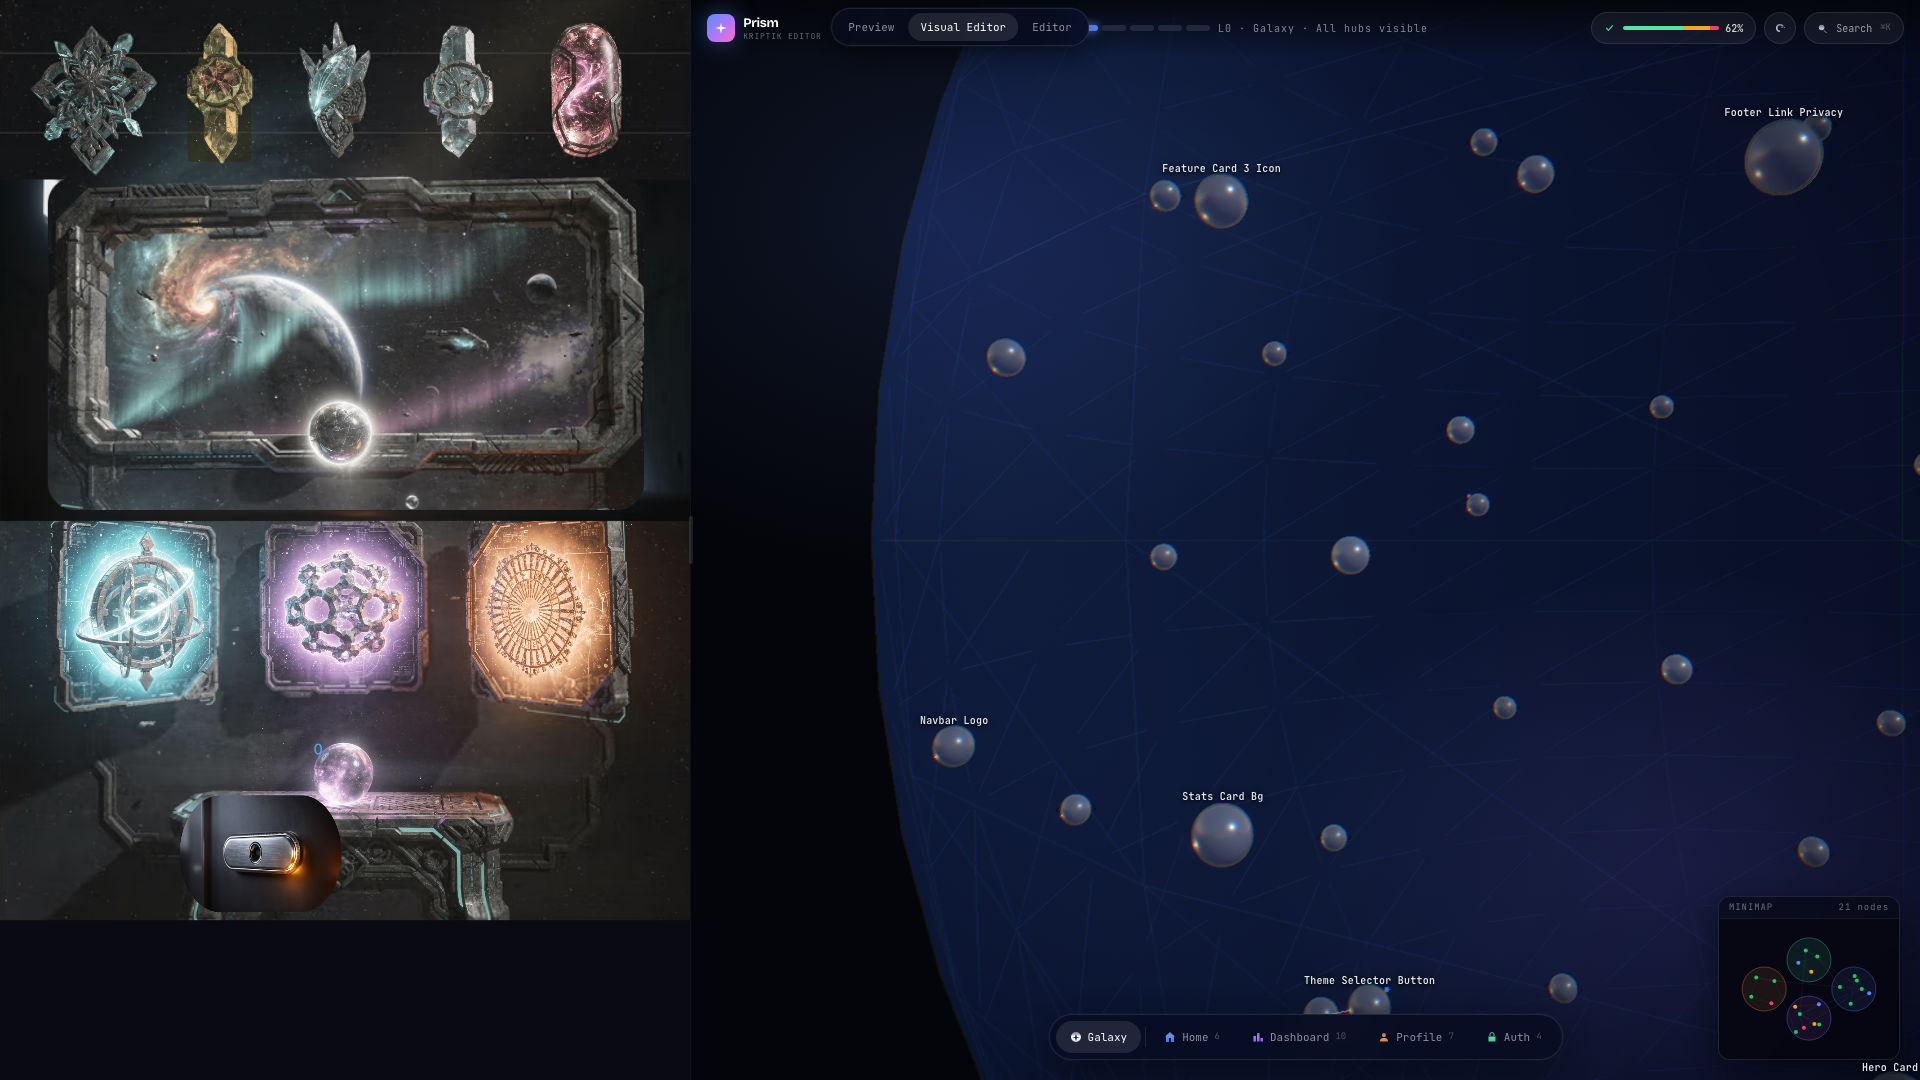
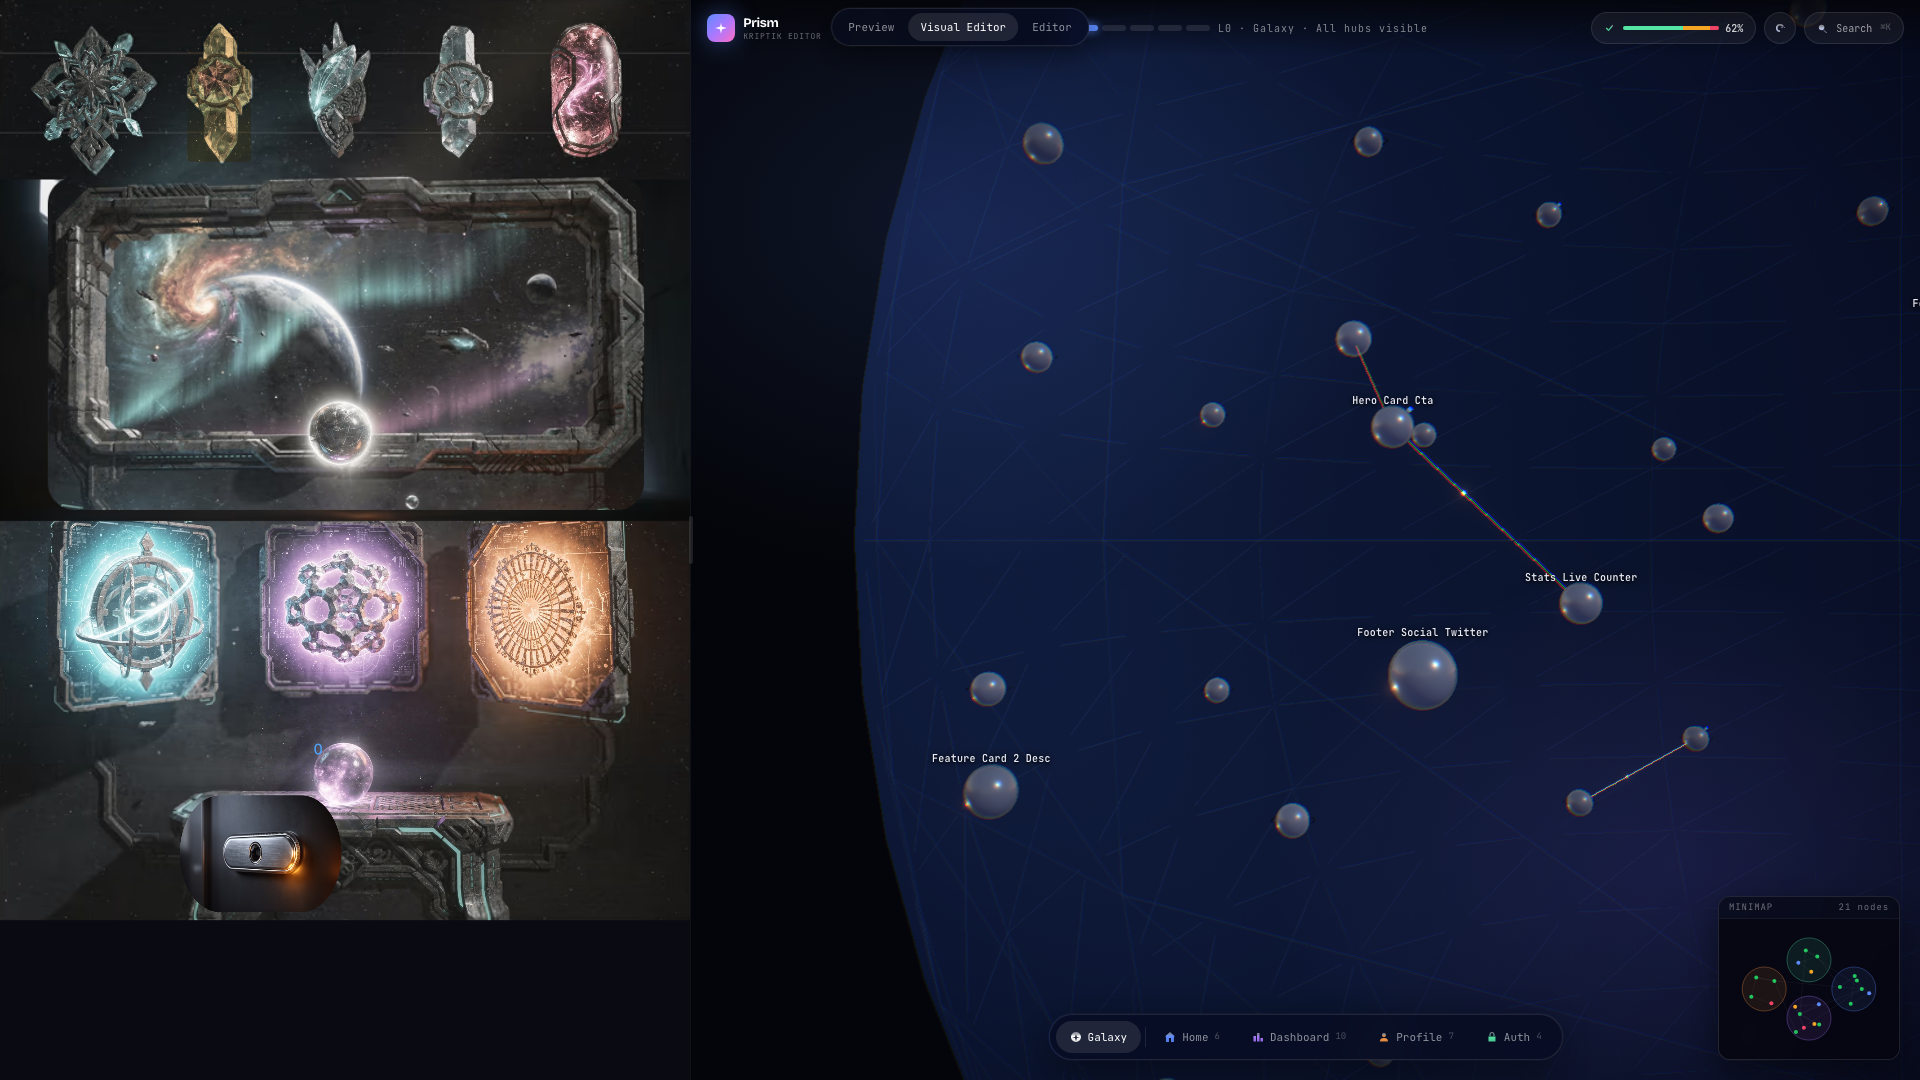
prism-mock: post-ralph fix-up v2 — 'embedded' role + camera close-zoom restored
Two regressions from v1:

1. 29 element-spheres was still too many. The user counts ~15-20 visible
   discrete elements in the preview; per-card text labels and small
   sub-elements (titles, descriptions, icons, copyright text, live
   counters) are perceived as part of their parent card / footer, not
   as standalone nav targets. Add a third PrismEditorRole value:
   'embedded'. Re-classify 13 nodes (hero text, all 9 feature-card
   sub-elements, footer-copyright, stats-live-counter). Editor + 5
   overlays now filter on `editorRole === 'element'` (was != 'background').
   New distribution: 11 background, 13 embedded, 16 element.

2. Camera minDistance had been scaled with hubRadius × 0.09, which made
   close-zoom impossible on hubs of ~150-unit radius. Revert to a small
   constant (8). maxDistance keeps scaling so big hubs still fit in frame.

Section / cluster ratios in useForceGraph.ts are intentionally unchanged
— spacing should stay loose for navigation comfort.

.prism artifact rebuilt; new artifactHash:
70bc44423ab872ab5d8b6babbe23bb29a9f4740789c2e9a33ec9265c6f2b2d4b
verify:prism 15/15 + browser-smoke 6/6 against the new artifact.

diff --git a/kid-kode-landing/src/components/editor/graph/GraphScene.tsx b/kid-kode-landing/src/components/editor/graph/GraphScene.tsx
@@ -676,10 +676,11 @@ function ControlsBridge({
     setCameraDistance(c.distance);
   });
 
-  // Scale camera bounds with the largest hub. Floor / ceiling keep the
-  // controls reasonable when the graph is empty or, conversely, very large.
+  // minDistance stays a small constant so close-zoom on individual nodes
+  // works even when the largest hub is wide. maxDistance scales up with
+  // the biggest hub so the full constellation stays in frame.
   const maxHubRadius = Math.max(90, ...Object.values(hubRadii));
-  const minDist = Math.max(5, maxHubRadius * 0.09);
+  const minDist = 8;
   const maxDist = Math.max(600, maxHubRadius * 6.5);
 
   return (
@@ -720,11 +721,12 @@ function SceneContent({
     [sourceHubs, sourceNodes, sourceEdges]
   );
 
-  // Element-only nodes feed the force-graph; full-section/card backgrounds
-  // (editorRole === 'background') stay part of the hub's outer mockup shell
-  // and never get nav-able element-spheres.
+  // Element-only nodes feed the force-graph. `background` (full-section /
+  // card fills) and `embedded` (text labels + per-card sub-elements like
+  // titles, descriptions, icons that the user perceives as part of a card,
+  // not as standalone elements) both stay off the nav-able sphere set.
   const elementNodes = useMemo(
-    () => editorGraph.nodes.filter((n) => n.editorRole !== 'background'),
+    () => editorGraph.nodes.filter((n) => n.editorRole === 'element'),
     [editorGraph.nodes]
   );
 

diff --git a/kid-kode-landing/src/components/editor/overlays/DetailCard.tsx b/kid-kode-landing/src/components/editor/overlays/DetailCard.tsx
@@ -23,9 +23,9 @@ export default function DetailCard() {
   );
 
   if (!selectedId || inspectorOpen) return null;
-  // Restrict the popover to discrete elements; backgrounds are part of the
-  // hub shell and don't get their own detail card.
-  const node = graph.nodes.find((n) => n.id === selectedId && n.editorRole !== 'background');
+  // Restrict the popover to discrete elements; backgrounds and embedded
+  // text/sub-elements aren't standalone nav targets.
+  const node = graph.nodes.find((n) => n.id === selectedId && n.editorRole === 'element');
   if (!node) return null;
 
   const frozen = frozenIds.has(node.id);

diff --git a/kid-kode-landing/src/components/editor/overlays/Minimap.tsx b/kid-kode-landing/src/components/editor/overlays/Minimap.tsx
@@ -19,7 +19,7 @@ export default function Minimap() {
     [sourceHubs, sourceNodes, sourceEdges]
   );
   const elementNodes = useMemo(
-    () => graph.nodes.filter((n) => n.editorRole !== 'background'),
+    () => graph.nodes.filter((n) => n.editorRole === 'element'),
     [graph.nodes]
   );
   const elementEdges = useMemo(() => {

diff --git a/kid-kode-landing/src/components/editor/overlays/SearchPalette.tsx b/kid-kode-landing/src/components/editor/overlays/SearchPalette.tsx
@@ -26,7 +26,7 @@ export default function SearchPalette() {
     [sourceHubs, sourceNodes, sourceEdges]
   );
   const elementNodes = useMemo(
-    () => graph.nodes.filter((n) => n.editorRole !== 'background'),
+    () => graph.nodes.filter((n) => n.editorRole === 'element'),
     [graph.nodes]
   );
 

diff --git a/kid-kode-landing/src/components/editor/overlays/HubNav.tsx b/kid-kode-landing/src/components/editor/overlays/HubNav.tsx
@@ -19,7 +19,7 @@ export default function HubNav() {
     [sourceHubs, sourceNodes, sourceEdges]
   );
   const elementNodes = useMemo(
-    () => graph.nodes.filter((n) => n.editorRole !== 'background'),
+    () => graph.nodes.filter((n) => n.editorRole === 'element'),
     [graph.nodes]
   );
 

diff --git a/kid-kode-landing/src/components/editor/overlays/TopBar.tsx b/kid-kode-landing/src/components/editor/overlays/TopBar.tsx
@@ -21,7 +21,7 @@ export default function TopBar() {
     [sourceHubs, sourceNodes, sourceEdges]
   );
   const elementNodes = useMemo(
-    () => graph.nodes.filter((n) => n.editorRole !== 'background'),
+    () => graph.nodes.filter((n) => n.editorRole === 'element'),
     [graph.nodes]
   );
 

diff --git a/kid-kode-landing/src/lib/prism-graph/types.ts b/kid-kode-landing/src/lib/prism-graph/types.ts
@@ -184,7 +184,7 @@ export interface PrismVisibility {
   [k: string]: unknown;
 }
 
-export type PrismEditorRole = 'element' | 'background';
+export type PrismEditorRole = 'element' | 'background' | 'embedded';
 
 export interface PrismIntent {
   caption: string;
